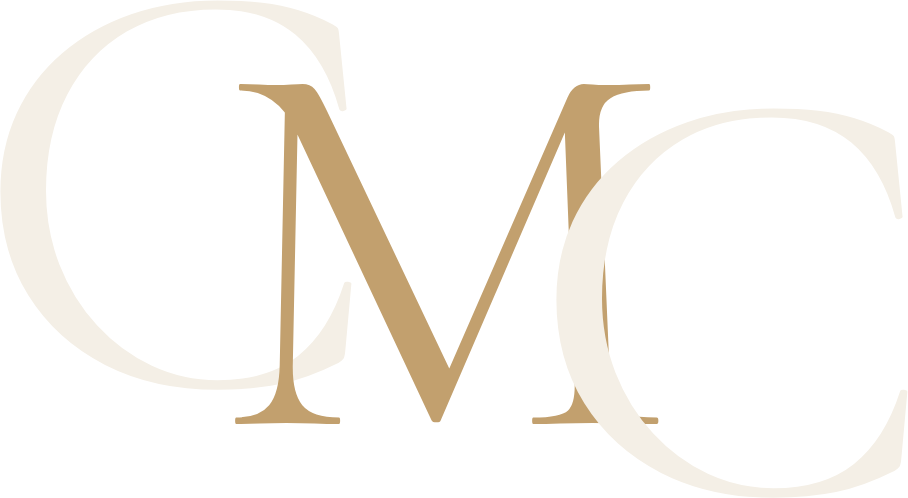
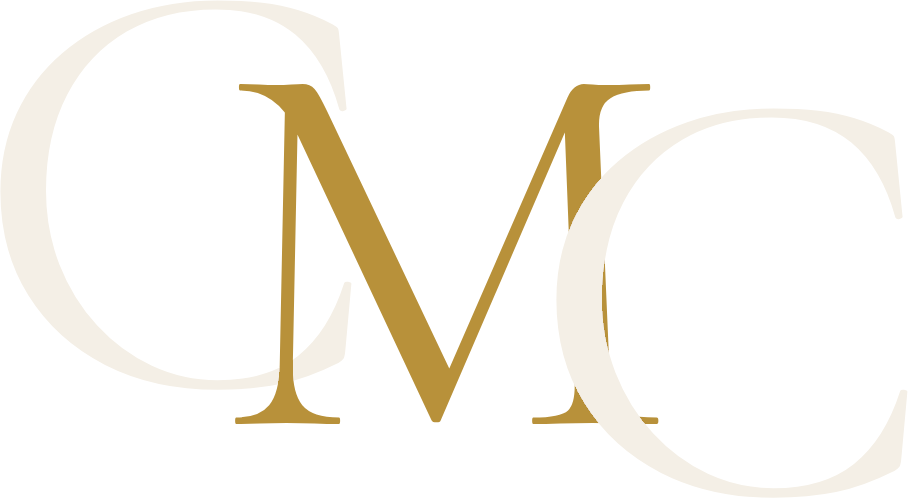
ajustes cliente final 2

diff --git a/styles.css b/styles.css
@@ -9,8 +9,8 @@
   --paper:#E8EBEE;
   --navy:#182A38;
   --navy-2:#20384A;
-  --gold:#A4865C;
-  --gold-l:#C2A06E;
+  --gold:#A97F28;
+  --gold-l:#D9B45A;
   --ink:#1E2A33;
   --muted:#5D646B;
   --line:rgba(24,42,56,.12);
@@ -35,7 +35,7 @@ h1,h2,h3{font-family:var(--serif);font-weight:500;line-height:1.08;color:var(--n
 .eyebrow{font-size:.76rem;font-weight:600;letter-spacing:.3em;text-transform:uppercase;color:var(--gold);margin-bottom:1rem}
 .eyebrow-light{color:var(--gold-l)}
 .h2{font-size:clamp(2.5rem,4.8vw,3.7rem);letter-spacing:-.005em}
-.h2 em{font-style:italic;font-weight:400;color:var(--gold)}
+.h2 em{font-style:italic;font-weight:400;color:var(--gold);background:linear-gradient(100deg,#9A7322 0%,#B08A2E 48%,#B8913A 52%,#9A7322 100%);-webkit-background-clip:text;background-clip:text;-webkit-text-fill-color:transparent}
 .lead{font-size:1.08rem;color:var(--muted)}
 .sec-head{text-align:center;max-width:46rem;margin:0 auto 3.6rem}
 
@@ -102,14 +102,13 @@ body.nav-open .mnav-ov{opacity:1;visibility:visible}
 .panels{display:flex;gap:14px;height:520px}
 .panel{position:relative;flex:1;min-width:0;overflow:hidden;isolation:isolate;display:flex;flex-direction:column;justify-content:space-between;padding:2rem;color:#fff;cursor:pointer;outline:none}
 .panel,.panel.reveal{transition:flex 1.1s cubic-bezier(.65,0,.35,1),opacity .9s var(--ease),transform .9s var(--ease)}
-.panel::before{content:"";position:absolute;inset:0;z-index:-2;background:var(--img) var(--pos,center)/cover no-repeat;transition:transform 1.6s cubic-bezier(.65,0,.35,1)}
+.panel::before{content:"";position:absolute;inset:0;z-index:-2;background:var(--img) var(--pos,center)/cover no-repeat;filter:contrast(1.08) saturate(1.12) brightness(1.04);transition:transform 1.6s cubic-bezier(.65,0,.35,1)}
 .panel::after{content:"";position:absolute;inset:0;z-index:-1;background:
-  linear-gradient(0deg,rgba(24,42,56,.94) 0%,rgba(24,42,56,.55) 50%,rgba(24,42,56,.3) 100%),
-  linear-gradient(140deg,rgba(164,134,92,.25) 0%,transparent 60%)}
+  linear-gradient(0deg,rgba(24,42,56,.9) 0%,rgba(24,42,56,.5) 30%,rgba(24,42,56,.22) 55%,rgba(24,42,56,.2) 75%,rgba(24,42,56,.35) 100%)}
 .panel.is-open{flex:2.6;cursor:default}
 .panel.is-open::before{transform:scale(1.04)}
-.p-n{font-family:var(--serif);font-style:italic;font-size:1.3rem;color:var(--gold-l)}
-.panel h3{font-size:1.55rem;line-height:1.1;color:#fff;transition:font-size .6s var(--ease)}
+.p-n{font-family:var(--serif);font-style:italic;font-size:1.3rem;color:var(--gold-l);text-shadow:0 1px 8px rgba(15,30,41,.6)}
+.panel h3{font-size:1.55rem;line-height:1.1;color:#fff;text-shadow:0 1px 14px rgba(15,30,41,.65);transition:font-size .6s var(--ease)}
 .panel.is-open h3{font-size:clamp(1.9rem,2.6vw,2.5rem)}
 .p-body p,.p-link{max-width:380px;opacity:0;transform:translateY(10px);transition:opacity .45s ease,transform .6s var(--ease)}
 .p-body p{margin:.8rem 0 1.3rem;font-size:.97rem;color:rgba(255,255,255,.86)}
@@ -125,6 +124,8 @@ body.nav-open .mnav-ov{opacity:1;visibility:visible}
 .proceso-img{position:relative;margin:0 0 0 0}
 .proceso-img::before{content:"";position:absolute;inset:-22px 22px 22px -22px;border:1px solid var(--gold);z-index:0}
 .proceso-img img{position:relative;z-index:1;width:100%;aspect-ratio:4/5;object-fit:cover}
+.logo-panel{position:relative;z-index:1;aspect-ratio:4/5;display:flex;align-items:center;justify-content:center;background:radial-gradient(circle at 50% 42%,var(--navy-2),var(--navy-3) 75%)}
+.logo-panel img{width:64%;height:auto;aspect-ratio:auto;object-fit:contain}
 .timeline{position:relative;margin:3rem 0 2.6rem}
 .timeline::before{content:"";position:absolute;left:1.9rem;top:1.4rem;bottom:1.4rem;width:1px;background:linear-gradient(var(--gold),rgba(164,134,92,.25))}
 .timeline li{position:relative;display:grid;grid-template-columns:3.8rem 1fr;gap:1.6rem;align-items:start;padding:1.2rem 0}
@@ -249,7 +250,8 @@ body.nav-open .mnav-ov{opacity:1;visibility:visible}
   .proceso-grid{grid-template-columns:1fr;gap:4rem}
   .proceso-img{max-width:440px;width:calc(100% - 28px);margin:14px auto 0}
   .proceso-img::before{inset:-14px}
-  .proceso-img img{aspect-ratio:4/3}
+  .proceso-img img,.logo-panel{aspect-ratio:4/3}
+  .logo-panel img{width:56%;aspect-ratio:auto}
   .contacto-grid{grid-template-columns:1fr;gap:3.5rem}
   .contacto-info{max-width:640px}
   .crest{max-width:340px;width:100%;margin:0 auto;aspect-ratio:1/1}

diff --git a/index.html b/index.html
@@ -92,7 +92,7 @@
       <h2 class="h2">¿En qué podemos <em>ayudarte?</em></h2>
     </div>
     <div class="panels">
-      <article class="panel is-open reveal" id="area-familia" tabindex="0" style="--img:url('img/area-familia.jpg');--pos:96% center">
+      <article class="panel is-open reveal" id="area-familia" tabindex="0" style="--img:url('img/area-familia.jpg');--pos:45% center">
         <span class="p-n">01</span>
         <div class="p-body">
           <h3>Civil y Familia</h3>
@@ -151,7 +151,7 @@
 <section class="proceso" id="propuesta">
   <div class="wrap proceso-grid">
     <figure class="proceso-img reveal">
-      <img src="https://images.pexels.com/photos/14715851/pexels-photo-14715851.jpeg?auto=compress&cs=tinysrgb&w=1100" alt="Escritorio de estudio jurídico junto a una ventana" width="1100" height="1375" loading="lazy">
+      <div class="logo-panel"><img src="./monograma-claro.png" alt="Estudio Jurídico CMC &amp; Asoc." width="908" height="498" loading="lazy"></div>
     </figure>
     <div class="proceso-copy">
       <div class="reveal">
